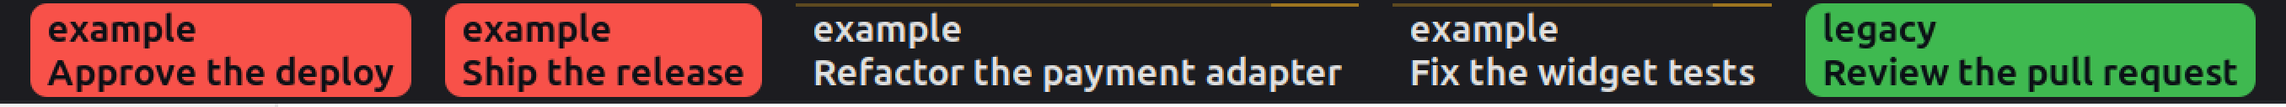
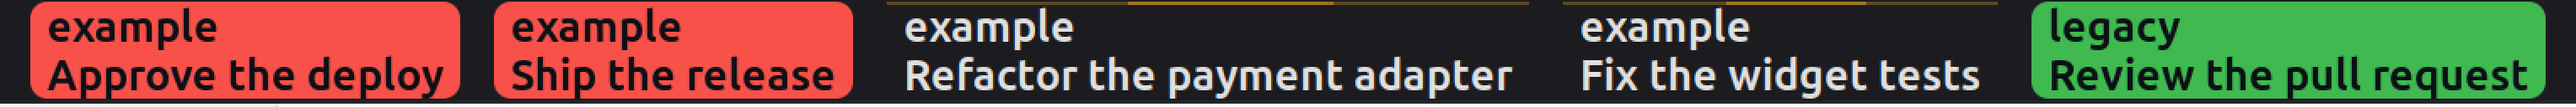
Spend the panel's last pixels on the type
The tile was 28 of the panel's 30px: two lines at 0.83em on a pixel of
padding above and below, with 1px of panel left over on each side. That
slack was the type's to spend, and it does now - the two lines go to
0.95em, which is 58 of the panel's 60 device pixels.

The content loses its vertical padding in the same move, and it has to:
the 1px each way was the last of the budget, so keeping it would put the
tile back at 31px and the fill 1px past the panel's edge - the spill the
bar's clip exists to avoid. The tile is now the panel's height, and the
fill pill sits 1px inside it (29 of 30, measured on the installed applet,
where it was 28).

0.95em is the ceiling for two lines in a 30px panel; past it only the
panel's height setting buys a step, at the price of a taller panel for
every applet, so the README says so instead. The overflow tile's "+N"
follows the row's size rather than staying a step smaller.

docs/panel.png is regenerated from the mock, and the development notes now
record that the stylesheet is cached in the Cinnamon process - a reload
leaves the old CSS in place, and the change only appears after a fresh
shell.

diff --git a/opencode-agents@laci/stylesheet.css b/opencode-agents@laci/stylesheet.css
@@ -20,12 +20,13 @@
     padding: 0px;
 }
 
-/* The top padding is the working bar's own row; the bar overlays it instead of
-   taking height of its own, so the two lines keep the room the panel gives
-   them. */
+/* The padding is horizontal only: at the two lines' size the panel's height is
+   the whole budget, and a pixel above and below would push the fill over the
+   panel's edge. The bar still overlays the content's top instead of taking a row
+   of its own, so it costs the text nothing. */
 .opencode-agents-tile-content {
     spacing: 6px;
-    padding: 1px 5px;
+    padding: 0px 5px;
 }
 
 /* The working bar's two layers span the whole tile and are clipped to the band
@@ -53,21 +54,21 @@
 }
 
 /* The project line is quieter than the conversation subject, but the same
-   size: the two lines read as one block. 0.83em is what lets two lines, their
-   padding and a pixel of margin above and below fit the panel's 30 logical
-   pixels - at 0.95em the tile is taller than the panel and its fill spills
-   over the edge. */
+   size: the two lines read as one block. 0.95em is the panel's whole budget
+   spent on the text: two lines are 58 of the panel's 60 device pixels, which is
+   why the content carries no vertical padding - any, and the fill would reach
+   past the panel's edge rather than sit inside it. */
 .opencode-agents-tile-project {
-    font-size: 0.83em;
+    font-size: 0.95em;
     opacity: 0.75;
 }
 
 .opencode-agents-tile-subject {
-    font-size: 0.83em;
+    font-size: 0.95em;
 }
 
 .opencode-agents-tile-overflow {
-    font-size: 0.83em;
+    font-size: 0.95em;
     opacity: 0.8;
 }
 

diff --git a/README.md b/README.md
@@ -263,6 +263,12 @@ on an OS-assigned `--port 0` port, one announced by a service file) and covers:
   Edited `lib/*.js` modules stay cached in the Cinnamon process, so those need a
   Cinnamon restart (`org.Cinnamon.RestartCinnamon true`) — a fresh start always
   works.
+- `stylesheet.css` is cached the same way, and worse: a reload leaves the parsed
+  CSS the applet was loaded with, so a size change simply does not appear. What
+  worked here is `cinnamon --replace` in the background — `RestartCinnamon`
+  returned without the change showing, and a probe rule (a 20px tile padding) was
+  still inert after it, which is what proved the stylesheet, not the applet, was
+  stale.
 - The tile animations and the working bar sweep are driven by the applet's own
   frame loop (`lib/easing.js` + a `GLib.timeout_add`) rather than by Clutter
   easing. Cinnamon applies an actor's final value immediately when desktop
@@ -272,7 +278,7 @@ on an OS-assigned `--port 0` port, one announced by a service file) and covers:
   `animate-tiles` setting is the switch that matters.
 - The working bar is a thin band along the tile's top edge and takes no layout
   room at all: both of its layers span the whole tile and are **clipped** to the
-  band, so the band overlays the content's top padding instead of adding a row
+  band, so the band overlays the content's first pixel instead of adding a row
   of its own (two text lines already fill a 30px panel, and a row of its own is
   what used to push the fill over the panel's edge). It cannot be a layer pinned
   to an edge either - Cinnamon's bin layout centres a bin child whatever its
@@ -306,11 +312,13 @@ on an OS-assigned `--port 0` port, one announced by a service file) and covers:
   way out, so an interrupted run cannot leave the applet pointed at a dead mock.
   Never inject a model into a live applet: the panel keeps showing it until the
   applet is reloaded.
-- The two lines are set at `0.83em` because that is what fits: a 30px panel is
-  60 device pixels here, two lines at `0.95em` are 58, and the 1px padding and
-  the fill's margin have to come out of the same budget. Raising the panel's
-  height setting is the alternative - it buys back a bigger font at the price of
-  a taller panel for every applet.
+- The two lines spend the panel's whole height: at `0.95em` they are 58 of a
+  30px panel's 60 device pixels, which is as large as they go before they stop
+  fitting. The content therefore carries no vertical padding - the 1px it used
+  to have is what the last step of type bought - so the tile is the panel's
+  height and the fill's edge is the panel's own edge; a rim would have to come
+  out of the text. Raising the panel's height setting is the only way to go
+  bigger, at the price of a taller panel for every applet.
 - Theme-node lengths (`spacing`, `padding`) come back in **device** pixels -
   multiplied by the stage scale factor, which is 2 on a HiDPI panel - while the
   applet's own settings are logical pixels. So a `spacing: 10px` rule in the
